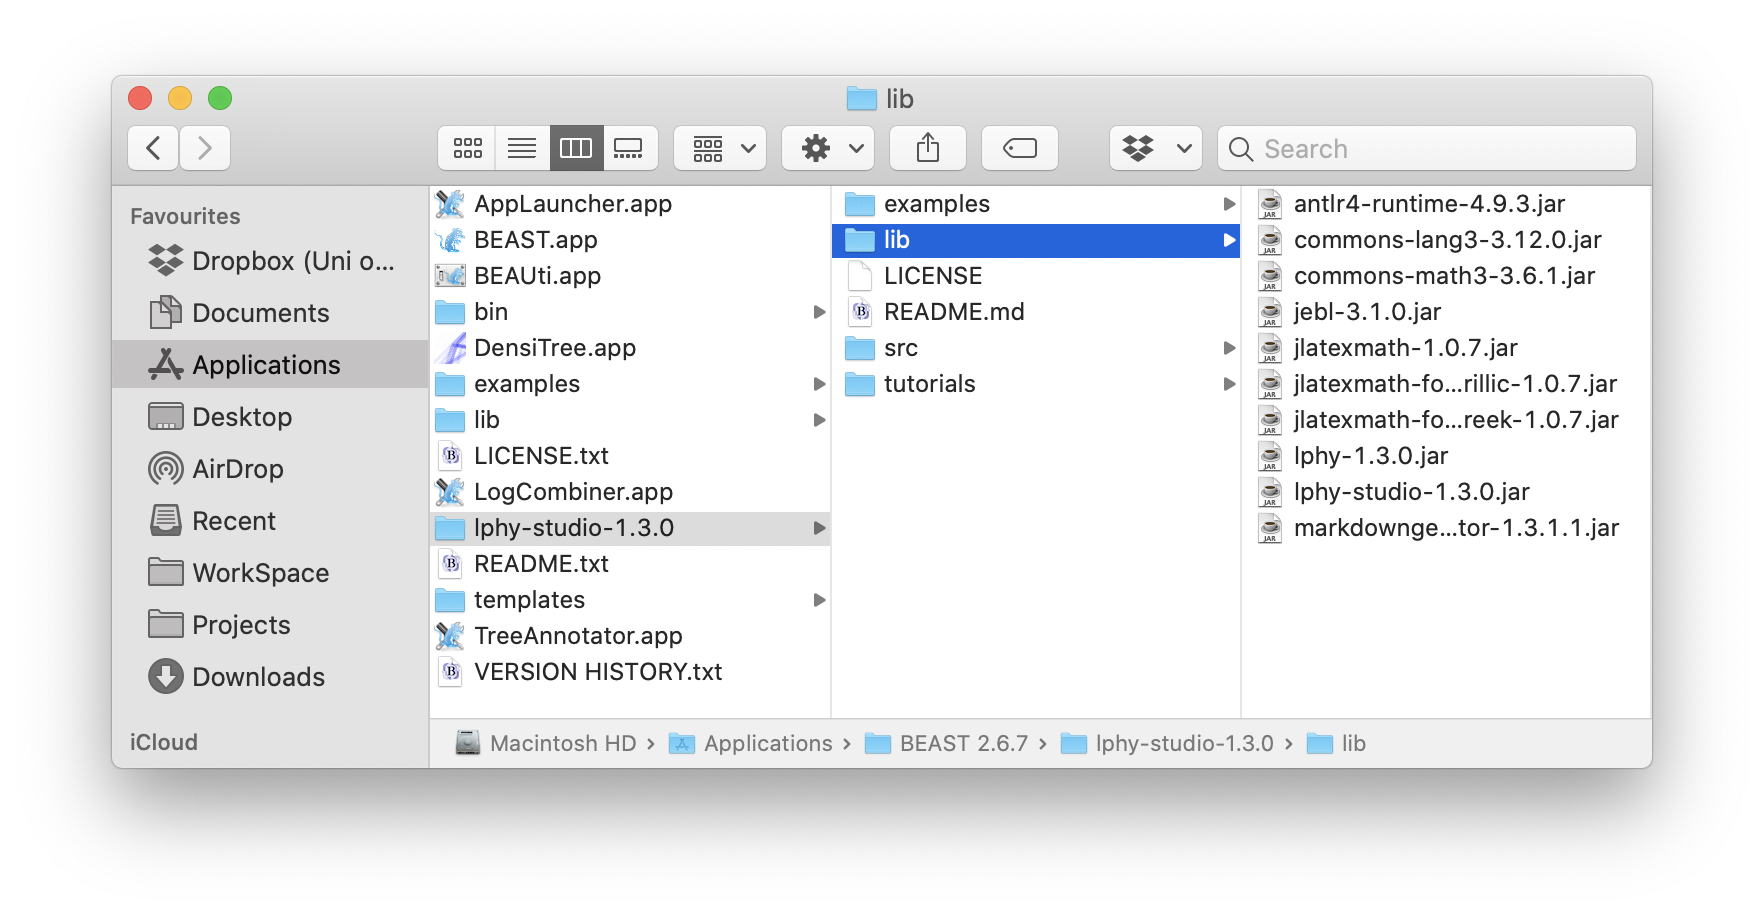
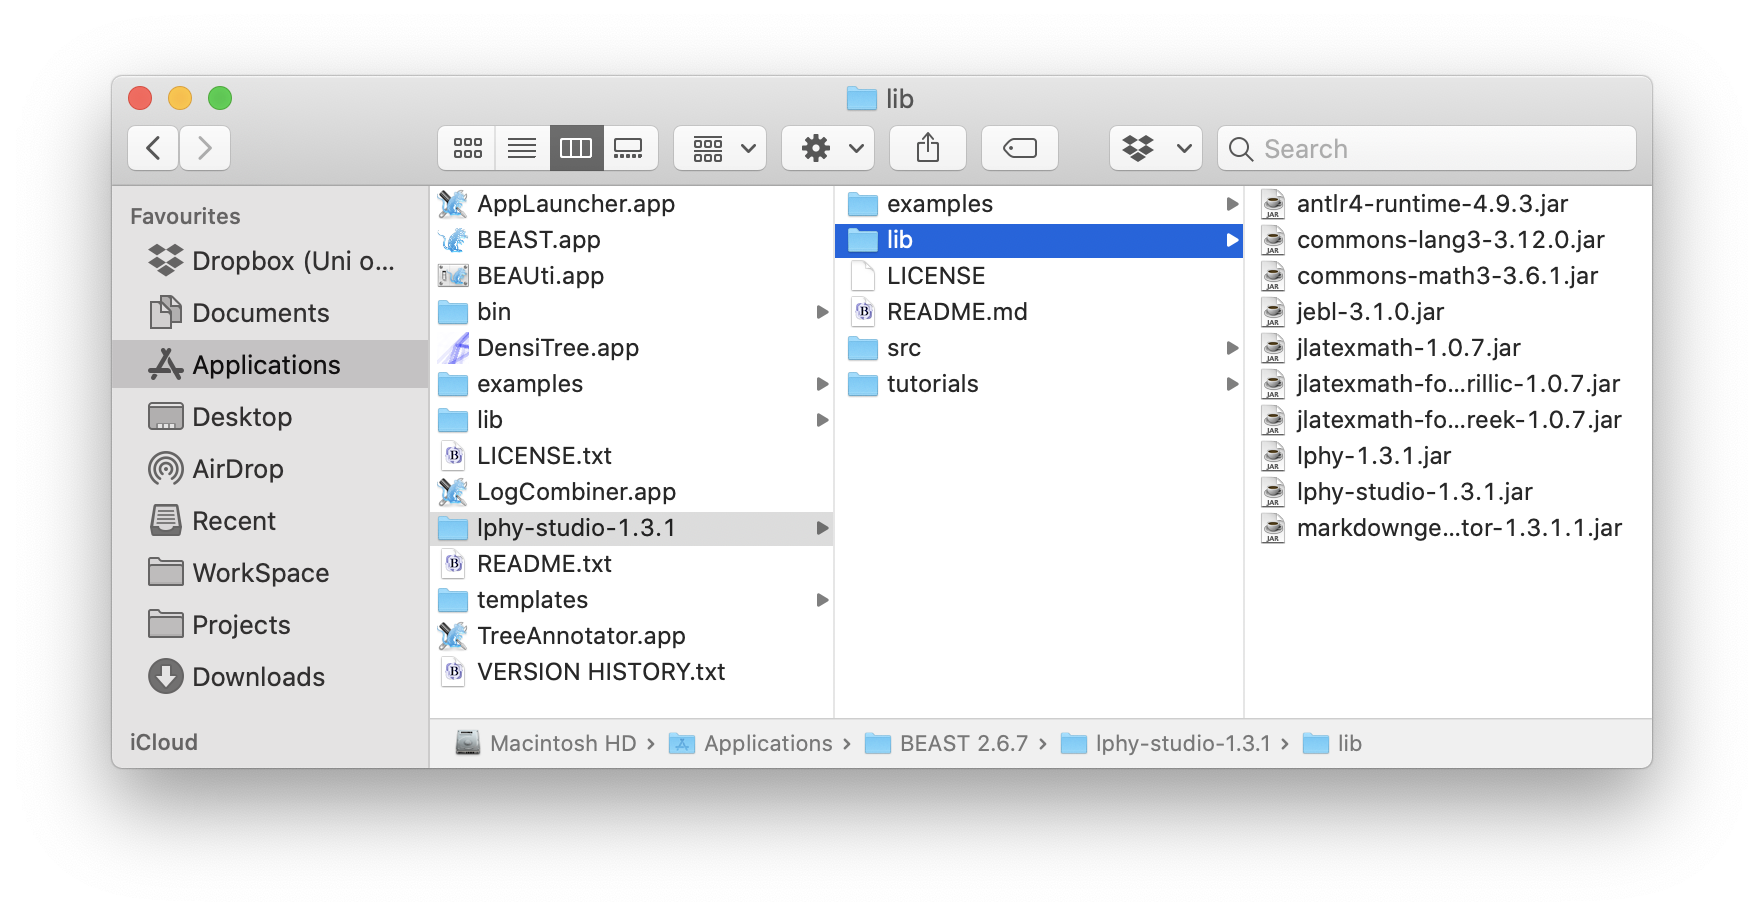
update lphy to 1.3.1

diff --git a/setup.md b/setup.md
@@ -23,7 +23,7 @@ java -version
 
 ## LPhy Studio
 
-{% assign lphy_version = "1.3.0" %}
+{% assign lphy_version = "1.3.1" %}
 
 ### LPhy studio installation
 
@@ -148,7 +148,7 @@ such as `lphy-studio-{{ lphy_version }}.zip`.
 </figure>  
 
 {:start="3"}
-3. Make sure there is only __one__ LPhy folder, such as `lphy-studio-{{ lphy_version }}`, inside your `$BEAST_DIR`.
+3. Make sure there is __only one__ LPhy folder, such as `lphy-studio-{{ lphy_version }}`, inside your `$BEAST_DIR`.
 
 4. Download the bash script `lphybeast` from 
 [LPhyBEAST's repo](https://github.com/LinguaPhylo/LPhyBeast/blob/master/lphybeast/bin/lphybeast),
